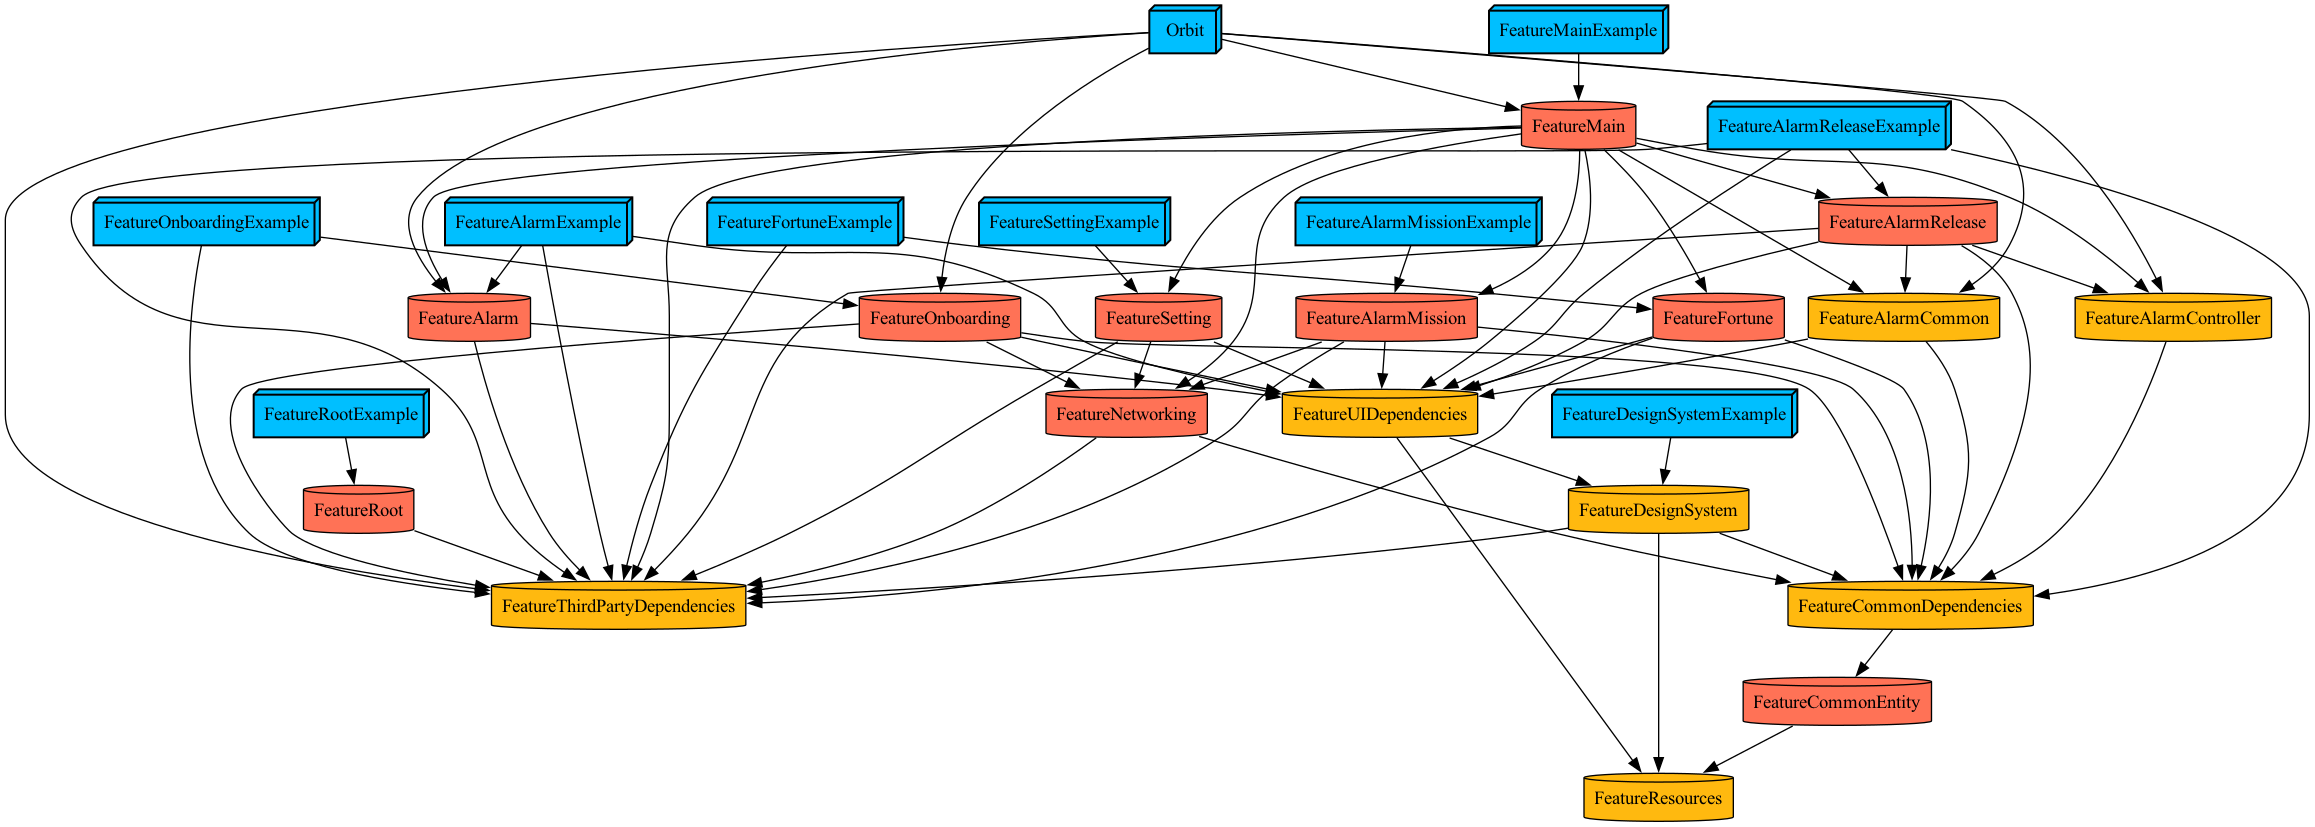
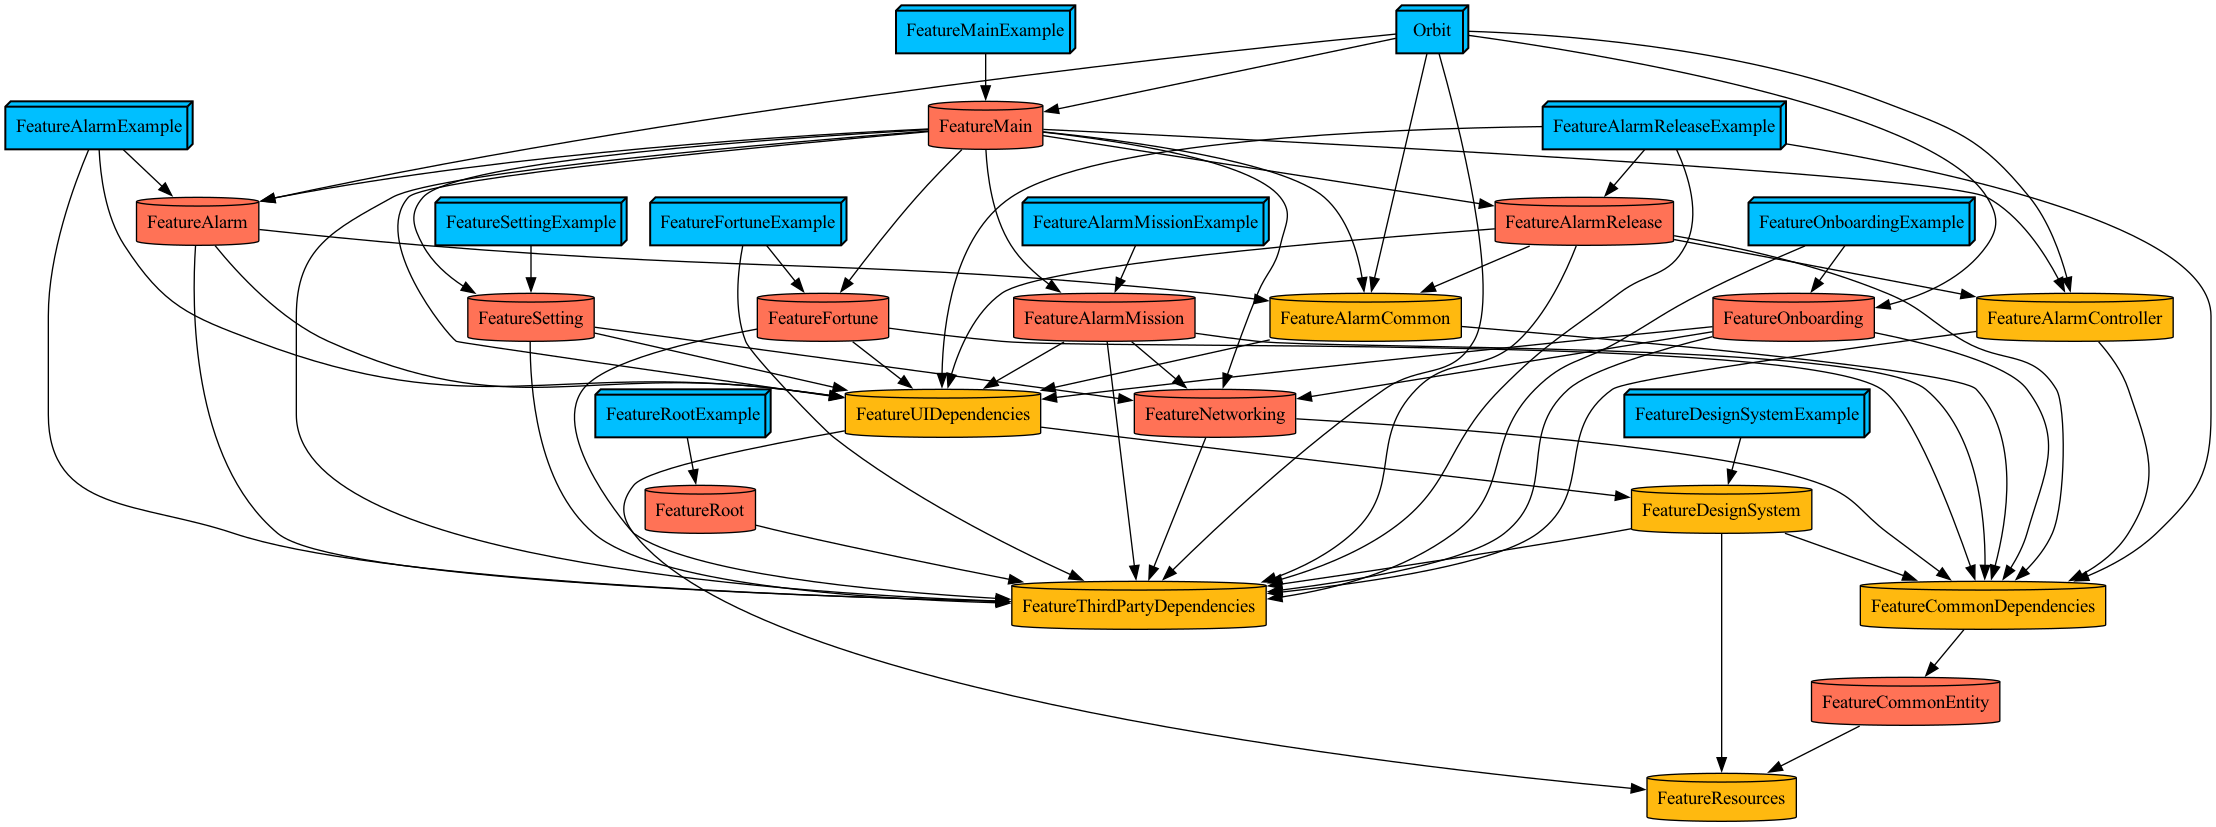
Feat, 모듈의존관계 수정 및 1.0.2테스트 플라이트 배포

diff --git a/Projects/Orbit/Project.swift b/Projects/Orbit/Project.swift
@@ -16,7 +16,7 @@ let project = Project(
                     "UIInterfaceOrientationPortrait"
                 ],
                 "CFBundleDisplayName": "오르비 알람",
-                "CFBundleShortVersionString": "1.0.1",
+                "CFBundleShortVersionString": "1.0.2",
                 "NSPhotoLibraryUsageDescription": "부적 이미지를 저장하기 위해서는 앨범 접근 권한이 필요해요!",
                 "UIBackgroundModes": [
                     "processing", "audio"

diff --git a/Projects/Feature/Alarm/Project.swift b/Projects/Feature/Alarm/Project.swift
@@ -45,10 +45,9 @@ let project = Project(
             deploymentTargets: Project.Environment.deploymentTarget,
             sources: ["Feature/Sources/**"],
             dependencies: [
-                
-                // Third party
                 .feature(implements: .UIDependencies),
-                .feature(implements: .ThirdPartyDependencies)
+                .feature(implements: .AlarmCommon),
+                .feature(implements: .ThirdPartyDependencies),
             ]
         ),
 

diff --git a/Projects/Feature/AlarmController/Project.swift b/Projects/Feature/AlarmController/Project.swift
@@ -35,7 +35,8 @@ let project = Project(
             sources: ["Feature/Sources/**"],
             resources: ["Feature/Resources/**"],
             dependencies: [
-                .feature(implements: .CommonDependencies)
+                .feature(implements: .CommonDependencies),
+                .feature(implements: .ThirdPartyDependencies),
             ]
         ),
     ]
